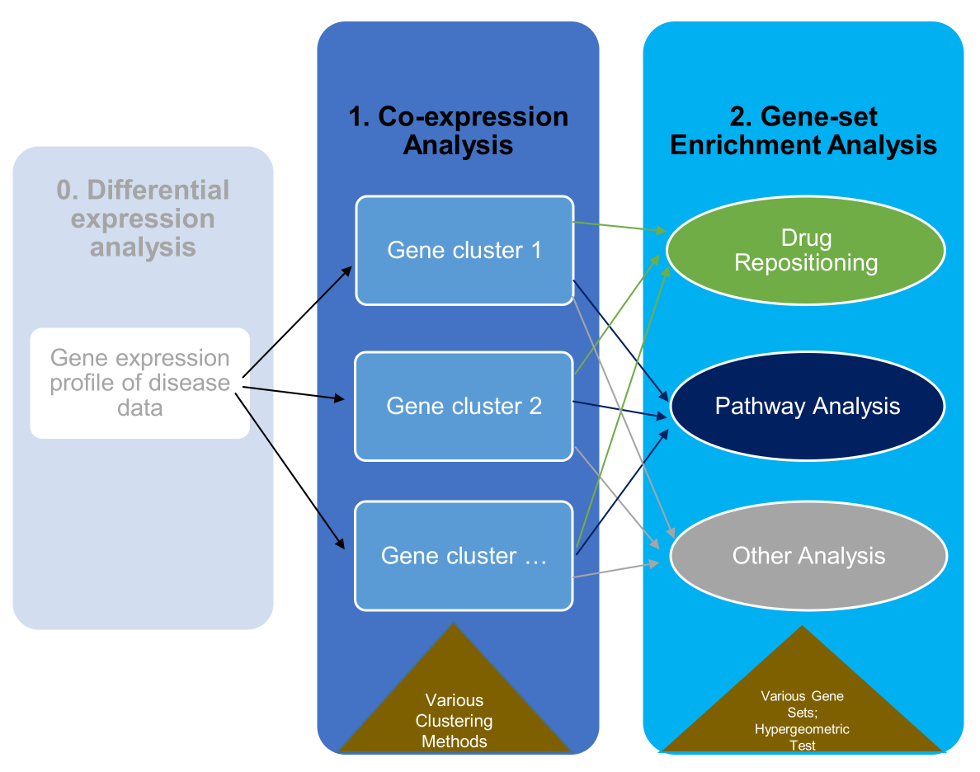
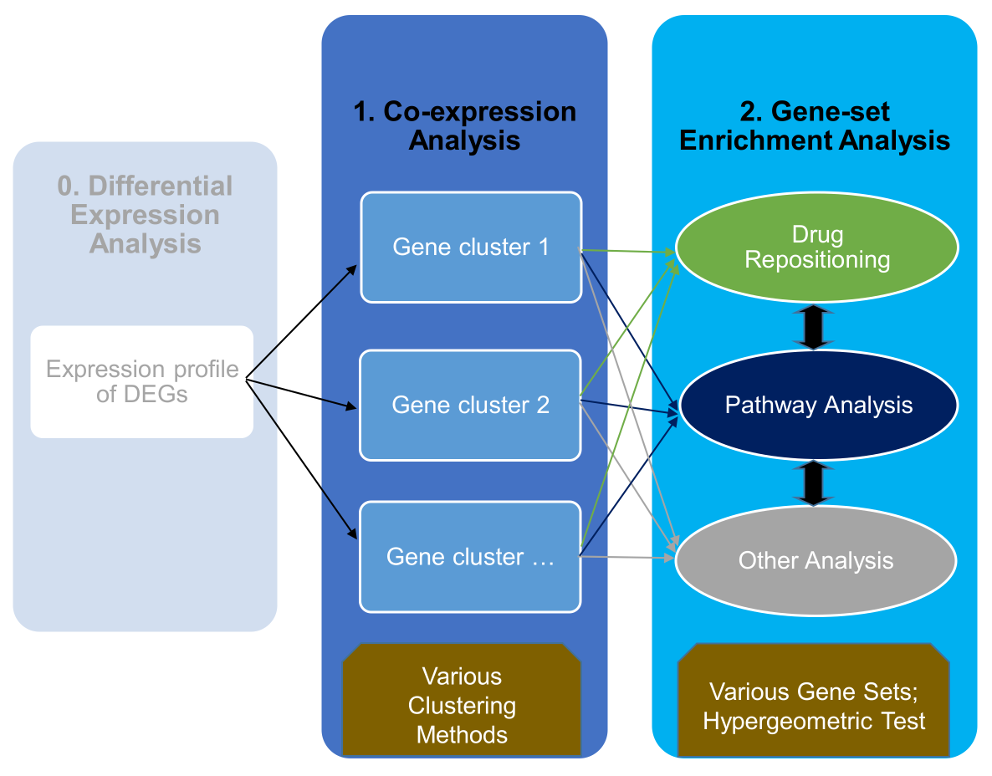
version 1.2.0

diff --git a/README.md b/README.md
@@ -2,34 +2,30 @@
 
 [![Travis-CI Build Status](https://travis-ci.org/zhilongjia/cogena.png?branch=master)](https://travis-ci.org/zhilongjia/cogena)
 
-
+#Introduction
 To discovery smaller scale, but highly correlated cellular events that may be of great biological relevance, co-expressed gene set enrichment analysis, cogena, aims to cluster gene expression profiles (coExp) for gene co-expression analysis and then implement enrichment analysis for each clusters (clEnrich) based on hyper-geometric test. The results can be visulised by heatmapCluster and heatmapPEI. Based on different gene sets used, cogena can be used as a tool for pathway analysis, GO enrichment analysis, drug repositioning and so on.
 
 See vignette for the detailed workflow.
 
-
+#The workflow of cogena
 ![cogena_workflow](inst/figure/Cogena_workflow.png)
 
-The workflow of cogena
-
+#The heatmap of co-expressed genes based on pam methods with 7 clusters
 ![cogena_heatmapCluster](inst/figure/heatmapCluster.png)
 
-The heatmap of co-expressed genes based on pam methods with 7 clusters.
 
 
+#KEGG pathway analysis for 7 clusters, together with Down-regulated, Up-regualted and All DE genes. The values shown are the -log2(FDR).
 ![cogena_heatmapPEI](inst/figure/heatmapPEI.png)
 
-KEGG pathway analysis for 7 clusters, together with Down-regulated, Up-regualted and All DE genes. The values shown is the -log2(FDR).
 
-![cogena_heatmapCmap](inst/figure/heatmapCmap1.png)
+#Drug repositioning analysis for the 4th cluster.
+![cogena_heatmapCmap](inst/figure/heatmapCmap0.png)
 
-Drug repositioning analysis for the 4th cluster.
 
-Installation:
+#Installation
+devtools::install_github("zhilongjia/cogena")
 
-	devtools::install_github("zhilongjia/cogena")
-
-Acknowledgement:
-
+#Acknowledgement
 cogena was originally based on the [clValid](http://cran.r-project.org/web/packages/clValid/index.html) package.
 
